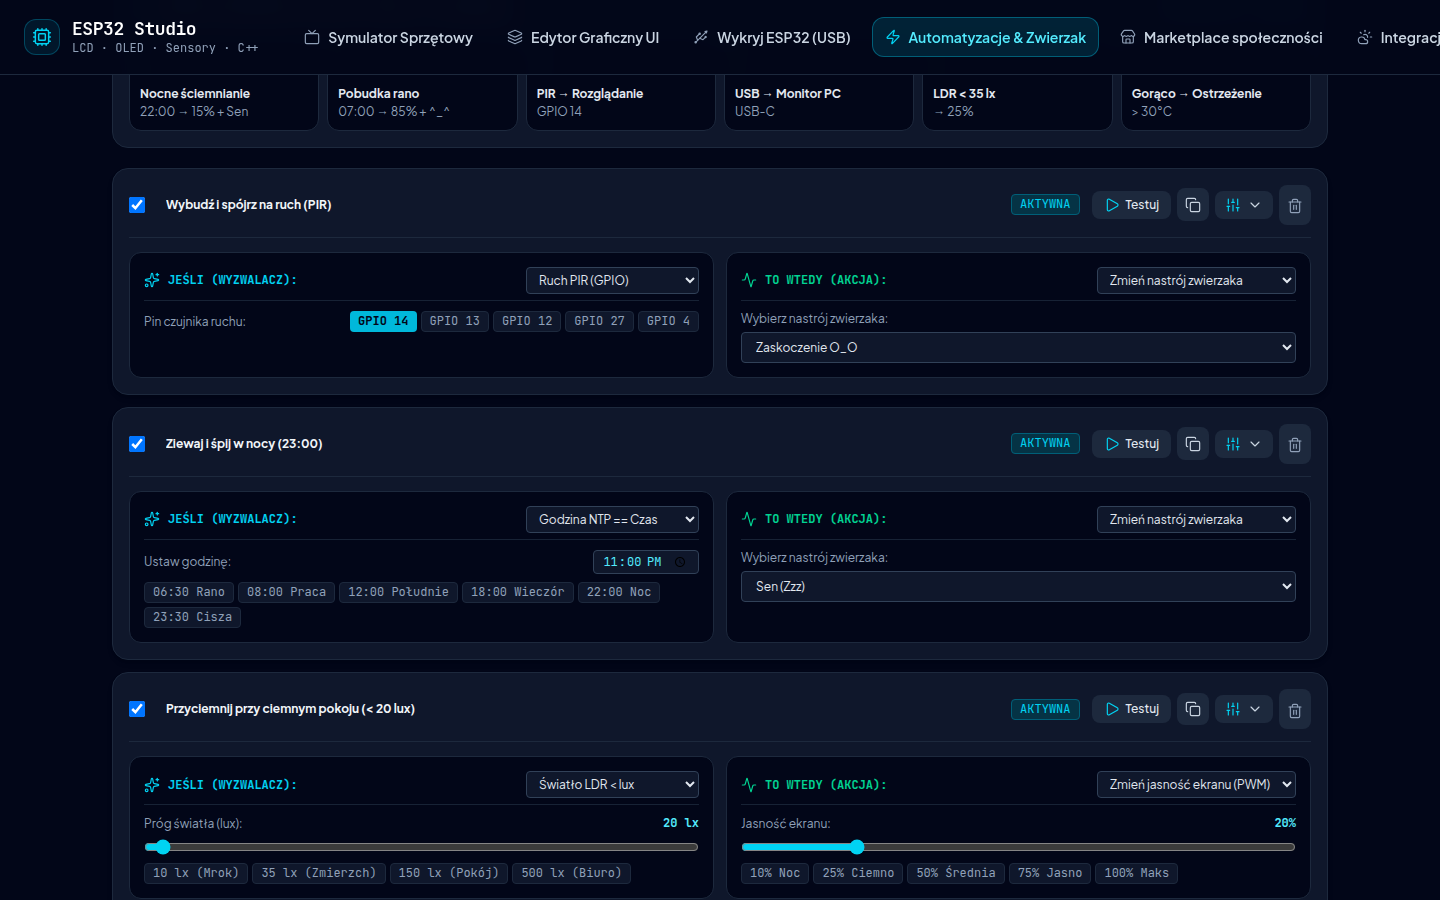
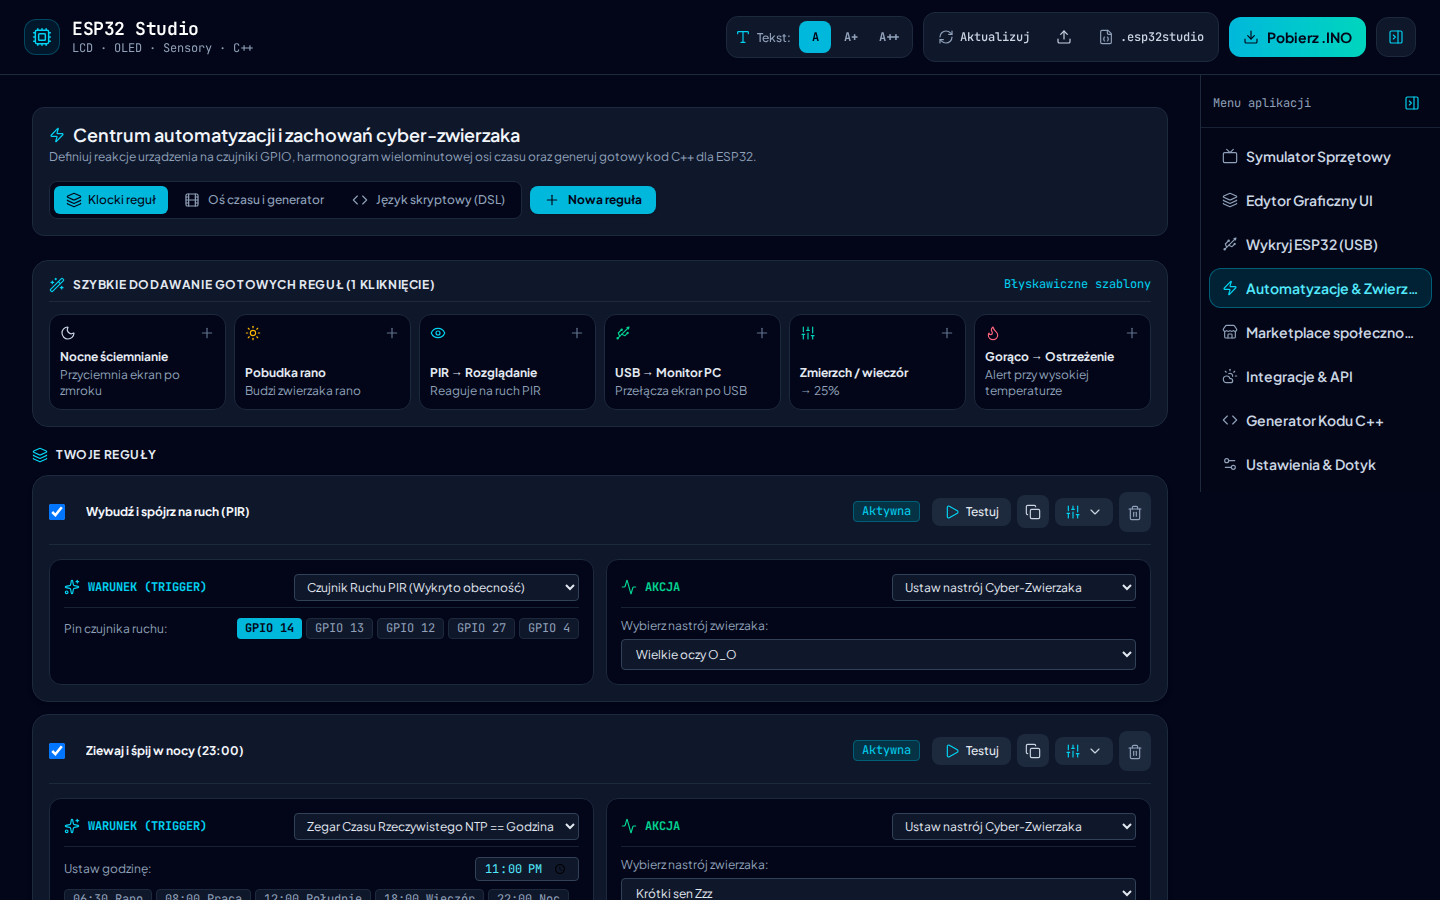
docs(release): bump to 0.2.11 and refresh UI screenshots
Document #34–#39 (multi-OS CI, USB detect UX, marketplace board/GitHub
add-ons, free tooling, right-side menu), sync version across package/
Tauri/Cargo/telemetry/winget template, and replace docs/media shots.

diff --git a/src/components/DesktopSettingsPanel.tsx b/src/components/DesktopSettingsPanel.tsx
@@ -155,7 +155,7 @@ export const DesktopSettingsPanel: React.FC = () => {
           <MonitorSmartphone className="ui-icon-sm text-cyan-400" aria-hidden="true" />
           {t('desktop.title')}
         </h3>
-        <span className="ui-type-micro font-mono text-cyan-400">v0.2.10</span>
+        <span className="ui-type-micro font-mono text-cyan-400">v0.2.11</span>
       </div>
 
       <div className="grid grid-cols-1 sm:grid-cols-2 gap-3 text-xs">

diff --git a/src/platform/telemetry.test.ts b/src/platform/telemetry.test.ts
@@ -4,7 +4,7 @@ import { buildTelemetryPayload } from './telemetry';
 const payload = buildTelemetryPayload({ name: 'build_result', ok: true });
 assert.equal(payload.event, 'build_result');
 assert.equal(payload.ok, true);
-assert.equal(payload.v, '0.2.10');
+assert.equal(payload.v, '0.2.11');
 assert.ok(typeof payload.os === 'string' && payload.os.length > 0);
 assert.ok(typeof payload.ts === 'number');
 

diff --git a/src/platform/telemetry.ts b/src/platform/telemetry.ts
@@ -31,7 +31,7 @@ export interface TelemetryPayload {
   ts: number;
 }
 
-const APP_VERSION = '0.2.10';
+const APP_VERSION = '0.2.11';
 
 function coarseOs(): string {
   if (typeof navigator === 'undefined') return 'unknown';

diff --git a/packaging/winget/ESP32DisplayStudio/PR_BODY.md b/packaging/winget/ESP32DisplayStudio/PR_BODY.md
@@ -1,6 +1,6 @@
 # winget-pkgs PR body template (Faza 16)
 
-Use after a **signed** GitHub Release `v0.2.10` (or earlier signed `v0.2.7`) is published. Do **not** invent
+Use after a **signed** GitHub Release `v0.2.11` (or earlier signed `v0.2.7`) is published. Do **not** invent
 credentials or SHA256 — fill hashes from a real NSIS asset (GitHub Release download or
 `scripts/winget/prepare-draft-manifest.sh` / workflow `winget-draft.yml`).
 
@@ -8,7 +8,7 @@ credentials or SHA256 — fill hashes from a real NSIS asset (GitHub Release dow
 
 ## Package
 
-New package: Studio.ESP32DisplayStudio version 0.2.10
+New package: Studio.ESP32DisplayStudio version 0.2.11
 
 Publisher: ESP32 Display Studio  
 Homepage: https://github.com/mateowoj-cpu/ESP32-App  
@@ -19,26 +19,26 @@ License: Proprietary
 - Architecture: x64
 - InstallerType: nullsoft (NSIS)
 - Scope: user
-- Version: 0.2.10
-- Installer URL: https://github.com/mateowoj-cpu/ESP32-App/releases/download/v0.2.10/ESP32.Display.Studio_0.2.10_x64-setup.exe
+- Version: 0.2.11
+- Installer URL: https://github.com/mateowoj-cpu/ESP32-App/releases/download/v0.2.11/ESP32.Display.Studio_0.2.11_x64-setup.exe
 - SHA256: <paste from Get-FileHash / CI winget-draft artifact — never invent>
 
 ## Checklist
 
 - [ ] Manifest YAML validated with `winget validate`
-- [ ] Local install: `winget install --manifest manifests/s/Studio/ESP32DisplayStudio/0.2.10`
+- [ ] Local install: `winget install --manifest manifests/s/Studio/ESP32DisplayStudio/0.2.11`
 - [ ] Authenticode signature present on the NSIS installer (SmartScreen may still warn until reputation builds)
 - [ ] No secrets in the PR
 
 ## Repo template
 
-`packaging/winget/ESP32DisplayStudio/manifests/s/Studio/ESP32DisplayStudio/0.2.10/`.
+`packaging/winget/ESP32DisplayStudio/manifests/s/Studio/ESP32DisplayStudio/0.2.11/`.
 Older templates `0.2.1`–`0.2.7` remain as reference until the first live winget-pkgs PR lands.
 CI can emit a filled draft under `packaging/winget/ESP32DisplayStudio/out/<version>/` (artifact only).
 
 ## Human steps (live merge)
 
-1. Confirm signed release assets on GitHub (`v0.2.10` or first signed `v0.2.7`)
+1. Confirm signed release assets on GitHub (`v0.2.11` or first signed `v0.2.7`)
 2. Tag → `windows-release.yml` produces NSIS `.exe` (optionally download `platformio-penv-windows` artifact from `windows-penv-artifact.yml` and stage before build)
 3. Run `winget-draft.yml` **or** `Get-FileHash .\ESP32.Display.Studio_*_x64-setup.exe -Algorithm SHA256`
 4. Replace `REPLACE_WITH_SHA256_OF_NSIS_INSTALLER` with the real digest

diff --git a/docs/developer-setup.md b/docs/developer-setup.md
@@ -1,6 +1,6 @@
 # Setup dla contributorów
 
-Jak uruchomić, testować i kompilować ESP32 Display Studio lokalnie. Linia: **0.2.10**. Indeks: [README.md](./README.md) · architektura: [architecture.md](./architecture.md).
+Jak uruchomić, testować i kompilować ESP32 Display Studio lokalnie. Linia: **0.2.11**. Indeks: [README.md](./README.md) · architektura: [architecture.md](./architecture.md).
 
 ## Wymagania
 
@@ -178,7 +178,7 @@ packaging/winget/    Manifesty referencyjne (SHA placeholder do releasu)
 packaging/updater/   Przykłady multi-platform latest.json
 scripts/             Windows / Unix / winget / board-profiles / full-compile.sh
 tools/pc-agent/      Agent monitora PC (Python)
-.github/workflows/   smoke, windows-release, desktop-unix*, winget-draft, penv
+.github/workflows/   smoke, windows/linux/macos-release, desktop-unix*, winget-draft, penv
 ```
 
 ## CI
@@ -186,11 +186,15 @@ tools/pc-agent/      Agent monitora PC (Python)
 | Workflow | Trigger | Co robi |
 |----------|---------|---------|
 | `smoke.yml` | PR / push `main` | Job frontend = suite jak `smoke` + pc-agent; job `rust-smoke` = `cargo check` |
-| `windows-release.yml` | tag `v*` / dispatch | NSIS/MSI + updater (Windows runner) |
+| `windows-release.yml` | tag `v*` / `workflow_dispatch` | NSIS/MSI + updater (Windows runner) — osobno od Unix |
+| `linux-release.yml` | tag `v*` / `workflow_dispatch` | AppImage + deb (`ubuntu-22.04`) |
+| `macos-release.yml` | tag `v*` / `workflow_dispatch` | dmg (`macos-14`) |
 | `windows-penv-artifact.yml` | dispatch | Artifact penv PlatformIO |
-| `desktop-unix-release.yml` | tag `v*` | AppImage / deb / dmg |
+| `desktop-unix-release.yml` | tag `v*` / dispatch | Opcjonalny assembler multi-platform `latest.json` (gdy signed) |
 | `desktop-unix-appimage-smoke.yml` | `workflow_dispatch` | Szybki smoke paczek Linux |
 | `winget-draft.yml` | dispatch / po releasie | SHA z assetu + draft manifest (**publish = human**) |
+
+Wersja: `npm run assert:app-version` (package.json = tauri.conf = Cargo.toml). Przy ręcznym dispatch: `confirm_fresh_dispatch=NEW`, tip `main`, **nie** Re-run starych runów. Szczegóły: [desktop-unix.md](./desktop-unix.md).
 
 **Nie commituj** prywatnych kluczy, `.pfx`, prawdziwych SHA winget z niesprawdzonych binarek, ani tokenów. Zobacz [windows-signing.md](./windows-signing.md), [windows-winget.md](./windows-winget.md).
 

diff --git a/docs/user-guide.md b/docs/user-guide.md
@@ -1,6 +1,6 @@
 # Przewodnik użytkownika — ESP32 Display Studio
 
-Krótki przewodnik po aplikacji **0.2.10**. Warstwy / IPC / env: [architecture.md](./architecture.md). Sterowniki, OTA, winget: dokumenty poniżej.
+Krótki przewodnik po aplikacji **0.2.11**. Warstwy / IPC / env: [architecture.md](./architecture.md). Sterowniki, OTA, winget: dokumenty poniżej.
 
 ## Dwa tryby uruchomienia
 
@@ -34,7 +34,10 @@ Linux / macOS: [desktop-unix.md](./desktop-unix.md).
 - **Symulator sprzętowy** — OLED/LCD, sensory, GPIO  
 - **Edytor UI** — widgety, animacje, sekwencje ekranów  
 - **Automatyzacje / cyber-zwierzak** — PIR, czas, dotyk, USB  
-- **Marketplace** — gotowe paczki widgetów / reguł (import JSON, sandbox bez wykonywania kodu)  
+- **Marketplace** — widget/rule packs, **board packs**, curated **GitHub add-ons** + formularz „Dodaj opcję” (sandbox bez wykonywania kodu) — [marketplace-github-addons.md](./marketplace-github-addons.md)  
+- **USB** — **Wykryj ESP32** z nieblokującym banerem oczekiwania (UI zostaje responsywne podczas skanu)  
+- **Nawigacja** — na desktopie (`lg+`) zwijane **menu aplikacji po prawej**; stan zapamiętany w `localStorage`  
+- **Tooling** — detekcja PlatformIO / Arduino CLI·IDE / esptool / ESP-IDF / Wokwi + override ścieżek w Ustawieniach desktop — [esp32-tooling-integrations.md](./esp32-tooling-integrations.md)  
 - **Integracje** — pogoda (Open-Meteo itd.), **Monitor PC** (CPU/RAM/dysk)  
 - **Generator C++** — Arduino / PlatformIO + mapa pinów  
 - **i18n** — PL / EN (**Ustawienia → Aplikacja desktopowa → Język interfejsu**; w przeglądarce ten sam przełącznik w panelu Desktop)
@@ -54,6 +57,10 @@ Zrzuty z web UI (locale **PL**, motyw dark cyan/slate):
 ![Marketplace społeczności](./media/marketplace.png)
 
 ![Ustawienia](./media/settings.png)
+
+![Ustawienia — darmowe narzędzia](./media/settings-tooling.png)
+
+![Menu prawe zwinięte](./media/nav-sidebar-collapsed.png)
 
 ## Build, Flash, OTA (desktop)
 

diff --git a/docs/windows-winget.md b/docs/windows-winget.md
@@ -19,8 +19,8 @@ Lokalnie (gdy masz plik `.exe`):
 
 ```bash
 ./scripts/winget/prepare-draft-manifest.sh \
-  --version 0.2.10 \
-  --installer ./ESP32.Display.Studio_0.2.10_x64-setup.exe
+  --version 0.2.11 \
+  --installer ./ESP32.Display.Studio_0.2.11_x64-setup.exe
 ```
 
 ## Live winget-pkgs (Faza 15 — human)
@@ -30,20 +30,20 @@ Merge do [microsoft/winget-pkgs](https://github.com/microsoft/winget-pkgs) jest 
 ### Checklista po pierwszym signed release
 
 1. Sekrety CI (tylko w GitHub Actions / lokalnym sejfie — **nie w git**): `TAURI_SIGNING_PRIVATE_KEY`, opcjonalnie `WINDOWS_CERTIFICATE*`, opcjonalnie `WINGET_GITHUB_TOKEN`
-2. Tag signed `v0.2.7` lub nowszy (`v0.2.10`) → workflow `windows-release.yml`
+2. Tag signed `v0.2.7` lub nowszy (`v0.2.11`) → workflow `windows-release.yml`
 3. Opcjonalnie: workflow `windows-penv-artifact.yml` → artifact penv → `Stage-PlatformIoPenv.ps1` przed bundlem
 4. Uruchom `winget-draft.yml` (lub poczekaj na `release: published`) — sprawdź artefakt SHA (**nie wymyślaj**)
-5. Szablon referencyjny w repo: `packaging/winget/.../0.2.10/Studio.ESP32DisplayStudio.yaml` (placeholder SHA do czasu releasu)
+5. Szablon referencyjny w repo: `packaging/winget/.../0.2.11/Studio.ESP32DisplayStudio.yaml` (placeholder SHA do czasu releasu)
 6. PR do [microsoft/winget-pkgs](https://github.com/microsoft/winget-pkgs):
 
 ```text
-manifests/s/Studio/ESP32DisplayStudio/0.2.10/
+manifests/s/Studio/ESP32DisplayStudio/0.2.11/
 ```
 
 Lokalny test:
 
 ```powershell
-winget install --manifest packaging\winget\ESP32DisplayStudio\manifests\s\Studio\ESP32DisplayStudio\0.2.10
+winget install --manifest packaging\winget\ESP32DisplayStudio\manifests\s\Studio\ESP32DisplayStudio\0.2.11
 ```
 
 7. Po instalacji: monitoring SmartScreen — [windows-smartscreen.md](./windows-smartscreen.md).

diff --git a/docs/marketplace-github-addons.md b/docs/marketplace-github-addons.md
@@ -1,0 +1,34 @@
+# Marketplace — board packs i GitHub add-ons
+
+> **EN:** Marketplace catalog kinds now include `board_pack` (VID:PID flash profiles) and `github_addon` (curated GitHub links opened in the browser — never fetched or executed). Users can add local options via the **Add option** form.
+
+Indeks: [README.md](./README.md) · schemat paczek: [marketplace-plugin-api.md](./marketplace-plugin-api.md).
+
+## Rodzaje katalogu
+
+| `kind` | Zachowanie |
+|--------|------------|
+| `widget_pack` / `rule_pack` | Instalacja JSON w sandboxie (bez `eval`) |
+| `board_pack` | Profile flash VID:PID → walidacja community board-catalog + cache `boardSync` |
+| `github_addon` | Tylko link `https://github.com/owner/repo` (otwórz w przeglądarce) |
+
+## UX
+
+- Filtry: All / Widgets / Rules / **Boards** / **GitHub**
+- Formularz **Dodaj opcję** — lokalne GitHub add-ony i profile board (`localStorage`)
+- Import JSON nadal obsługuje widget / rule / board packs
+- i18n PL / EN dla nowych stringów
+
+## Bezpieczeństwo
+
+- Model bez zmian: brak `eval` / WASM / zdalnego kodu
+- GitHub add-ony: wyłącznie allowlisted `https://github.com/…`
+- Board packs: te same reguły offset ↔ chip co [board-catalog.md](./board-catalog.md)
+
+## Bundled (przykłady)
+
+- Widget pack `oled-pet-dash`
+- Board pack `usb-bridges` (CH340 / CP210x / CH9102 / S3)
+- Curated GitHub add-ony w `public/marketplace/catalog.json` (u8g2, LVGL, TFT_eSPI, FastLED, …)
+
+Implementacja: `MarketplaceView`, `src/platform/marketplace.ts`, `src/platform/marketplaceOptions.ts`.

diff --git a/docs/roadmap-next.md b/docs/roadmap-next.md
@@ -2,9 +2,10 @@
 
 Indeks docs: [README.md](./README.md). **Nie oznaczaj Faz 18+ jako ukończonych** bez merge’a funkcji.
 
-## Stan (main · 0.2.10+)
+## Stan (main · 0.2.11+)
 
 - **Fazy 0–17** na `main` (marketplace sandbox publisher bootstrap, board catalog, Unix/Windows packaging CI).
+- **0.2.11 UX / CI** — osobne workflow Linux/macOS/Windows (#34), hardened winget draft (#35), non-blocking USB detect (#36), marketplace board/GitHub add-ons (#37), free tooling detect (#38), collapsible right-side nav (#39).
 - **Full build closure** — udokumentowana i zweryfikowana ścieżka: `npm run smoke` + `cargo check` (+ Linux AppImage/deb w środowisku Linux). Checklist: [developer-setup.md](./developer-setup.md) § „Pełna kompilacja”; skrypt `npm run compile:full` / `scripts/full-compile.sh`.
 - **Docs** — README + [architecture.md](./architecture.md) opisują IPC / macierz build; oficjalne screenshoty w [media/](./media/); indeks: [README.md](./README.md).
 - **Board catalog community validation** — PR flow (szablon + path-filtered CI), walidacja offset ↔ esptool chip family, bundled ↔ disk parity, reject złego remote przed apply. Docs: [board-catalog.md](./board-catalog.md).

diff --git a/docs/telemetry.md b/docs/telemetry.md
@@ -16,7 +16,7 @@ Gdy przełącznik jest włączony **oraz** build definiuje `VITE_TELEMETRY_ENDPO
 
 | Pole | Znaczenie |
 |------|-----------|
-| `v` | Wersja aplikacji (np. `0.2.10`) |
+| `v` | Wersja aplikacji (np. `0.2.11`) |
 | `os` | Zgrubny system: `windows` / `macos` / `linux` / `other` |
 | `event` | `app_open`, `build_result`, `flash_result`, `ota_result`, `diag_export`, `board_sync` |
 | `ok` | Opcjonalny boolean dla zdarzeń wynikowych |
@@ -76,7 +76,7 @@ Studio **nie** hostuje collectora. Kto uruchamia `VITE_TELEMETRY_ENDPOINT`, powi
 ### Przykładowe ciało żądania
 
 ```json
-{ "v": "0.2.10", "os": "windows", "event": "flash_result", "ok": true, "ts": 1730000000000 }
+{ "v": "0.2.11", "os": "windows", "event": "flash_result", "ok": true, "ts": 1730000000000 }
 ```
 
 ## Implementacja
